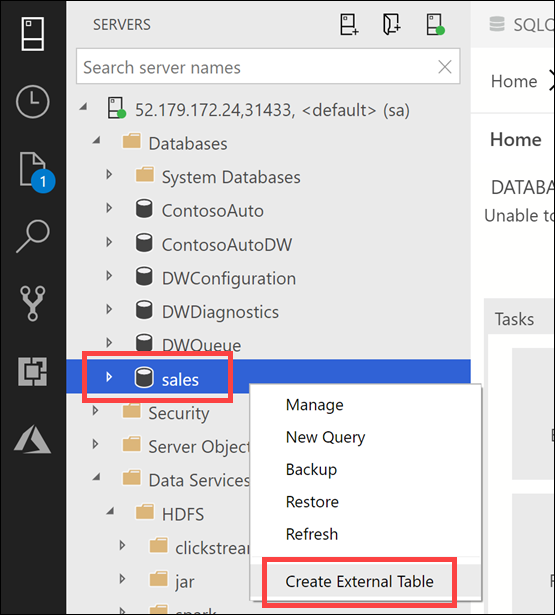
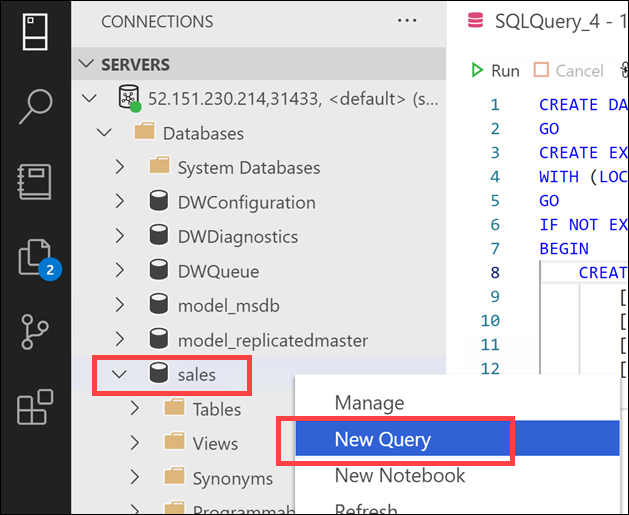
Switched from ADS interface to query for SQL external table

diff --git a/data-exp2/README.md b/data-exp2/README.md
@@ -2,18 +2,18 @@
 
 ## Data, Experience 2 - Handling Big Data with SQL Server 2019 Big Data Clusters
 
-- [Data & AI Tech Immersion Workshop – Product Review Guide and Lab Instructions](#Data--AI-Tech-Immersion-Workshop-%E2%80%93-Product-Review-Guide-and-Lab-Instructions)
-  - [Data, Experience 2 - Handling Big Data with SQL Server 2019 Big Data Clusters](#Data-Experience-2---Handling-Big-Data-with-SQL-Server-2019-Big-Data-Clusters)
-  - [Technology overview](#Technology-overview)
-  - [Scenario overview](#Scenario-overview)
-  - [Experience requirements](#Experience-requirements)
-  - [Before the lab: Connecting to SQL Server 2019](#Before-the-lab-Connecting-to-SQL-Server-2019)
-    - [Connect with Azure Data Studio](#Connect-with-Azure-Data-Studio)
-  - [Task 1: Query and join data from flat files, data from external database systems, and SQL Server](#Task-1-Query-and-join-data-from-flat-files-data-from-external-database-systems-and-SQL-Server)
-  - [Task 2: Train a machine learning model, score and save data as external table](#Task-2-Train-a-machine-learning-model-score-and-save-data-as-external-table)
-  - [Task 3: Mounting an Azure Data Lake Gen2 Storage Account to SQL Server 2019 Big Data Cluster using HDFS Tiering](#Task-3-Mounting-an-Azure-Data-Lake-Gen2-Storage-Account-to-SQL-Server-2019-Big-Data-Cluster-using-HDFS-Tiering)
-  - [Wrap-up](#Wrap-up)
-  - [Additional resources and more information](#Additional-resources-and-more-information)
+- [Data & AI Tech Immersion Workshop – Product Review Guide and Lab Instructions](#data--ai-tech-immersion-workshop-%e2%80%93-product-review-guide-and-lab-instructions)
+  - [Data, Experience 2 - Handling Big Data with SQL Server 2019 Big Data Clusters](#data-experience-2---handling-big-data-with-sql-server-2019-big-data-clusters)
+  - [Technology overview](#technology-overview)
+  - [Scenario overview](#scenario-overview)
+  - [Experience requirements](#experience-requirements)
+  - [Before the lab: Connecting to SQL Server 2019](#before-the-lab-connecting-to-sql-server-2019)
+    - [Connect with Azure Data Studio](#connect-with-azure-data-studio)
+  - [Task 1: Query and join data from flat files, data from external database systems, and SQL Server](#task-1-query-and-join-data-from-flat-files-data-from-external-database-systems-and-sql-server)
+  - [Task 2: Train a machine learning model, score and save data as external table](#task-2-train-a-machine-learning-model-score-and-save-data-as-external-table)
+  - [Task 3: Mounting an Azure Data Lake Gen2 Storage Account to SQL Server 2019 Big Data Cluster using HDFS Tiering](#task-3-mounting-an-azure-data-lake-gen2-storage-account-to-sql-server-2019-big-data-cluster-using-hdfs-tiering)
+  - [Wrap-up](#wrap-up)
+  - [Additional resources and more information](#additional-resources-and-more-information)
 
 ## Technology overview
 
@@ -104,53 +104,51 @@ To start, we will use the External Table Wizard in Azure Data Studio to connect 
 
 1.  Open Azure Data Studio and connect to your SQL Server 2019 cluster, following the [connection steps](#connect-with-azure-data-studio) above.
 
-2.  Expand the Databases folder, right-click on the **sales_YOUR_UNIQUE_IDENTIFIER** database, then select **Create External Table**. The `YOUR_UNIQUE_IDENTIFIER` portion of the name is the unique identifier assigned to you for this lab.
+2.  Expand the Databases folder, right-click on the **sales_YOUR_UNIQUE_IDENTIFIER** database, then select **Create New Query**. The `YOUR_UNIQUE_IDENTIFIER` portion of the name is the unique identifier assigned to you for this lab.
 
     ![The sales database and the Create External Table sub-menu item are highlighted.](media/ads-create-external-table-sales.png 'Create External Table')
 
-3.  Select the **SQL Server** data source type, then click **Next**.
+3.  Paste the following script into the query window:
 
-    ![The SQL Server data source type is selected.](media/ads-external-table-wizard-data-source-type.png 'Select data source type')
+    ```sql
+    CREATE DATABASE SCOPED CREDENTIAL [SqlCred] WITH IDENTITY = 'SQLReader', SECRET = 'MySQLBigData2019';
+    GO
+    CREATE EXTERNAL DATA SOURCE [SqlSource]
+    WITH (LOCATION = N'sqlserver://tech-immersion-sqlsrv.database.windows.net:1433', CREDENTIAL = [SqlCred], CONNECTION_OPTIONS='DATABASE=CA_Commerce');
+    GO
+    IF NOT EXISTS(SELECT * FROM sys.external_tables WHERE name = 'reviews')
+    BEGIN
+        CREATE EXTERNAL TABLE [dbo].[Reviews](
+            [product_id] [bigint] NOT NULL,
+            [customer_id] [bigint] NOT NULL,
+            [review] [nvarchar](1000) NOT NULL,
+            [date_added] [datetime] NOT NULL
+        )
+        WITH
+        (
+            DATA_SOURCE = SqlSource,
+            LOCATION = 'CA_Commerce.dbo.Reviews'
+        );
+    END
+    ```
 
-4.  The next step is to create a database master key, if it does not already exist. This secures the credentials used by an external data source. Enter `MySecure@MasterKey1` in the **Password** and **Confirm Password** fields. If you see a message stating that a master key already exists, you may skip this step. Click **Next**.
+4.  Click **Run** at the top of the query window to execute:
 
-    ![The Master Key step is displayed.](media/ads-external-table-wizard-master-key.png 'Master Key')
+    ![The SQL query is displayed in the query window and the Run button is highlighted.](media/ads-virtual-sql-table-query.png 'Query window')
 
-5.  Now, enter the credentials provided to you for the **CA_Commerce** Azure SQL Database within the following fields:
+5.  After a few moments, you will see three messages stating that the commands completed successfully.
 
-    - **External Data Source Name:** Enter the string "SQLReviews".
-    - **Server Name:** Enter the value provided to you for the Azure SQL Server name. The name should end with `.database.windows.net` (you can find this value in the lab environment details page, with the label `AZURE DATABASE SERVER`).
-    - **Database Name:** Enter "CA_Commerce".
-    - **Choose Credential:** Select "-- Create New Credential --".
-    - **New Credential Name:** Enter "SQLCred".
-    - **Username:** Enter the Azure SQL Server username provided to you for this lab (look to the lab environment details for the label `DATABASE USER`).
-    - **Password:** Enter the Azure SQL Server password provided to you for this lab (look to the lab environment details for the label `DATABASE PASSWORD`).
+    ![The three success messages are displayed.](media/ads-virtual-sql-table-query-success.png 'Messages window')
 
-    ![The external data source connection form is filled out with the previously mentioned settings entered into the appropriate fields.](media/ads-external-table-wizard-data-source.png 'Create a connection to your Data Source')
-
-6.  Click **Next**. This process will take a few moments while the External Table Wizard attempts to connect to your data source.
-
-7.  The next screen allows you to configure external table mapping and select the tables for which you want to create external views. Expand the **CA_Commerce** database node, then expand Tables, and check the box next to the **dbo.Reviews** table. Click on the table name to highlight it as well. It is here where you can rename the external table if you wish. For now, just click **Next**.
-
-    ![The external tables are listed and the Reviews table is checked and selected.](media/ads-external-table-wizard-table-mapping.png 'External tables')
-
-8.  In the Summary page that follows, you can see the name of the database scoped credential and external data source objects to be created in the destination database. Here you can click Generate Script to view the SQL script that will run to create the external table. Instead, click **Create**.
-
-    ![A screenshot of the summary is displayed.](media/ads-external-table-wizard-summary.png 'Summary')
-
-9.  After a few moments, a "Create External Table succeeded" message will display.
-
-    ![The Create External Table succeeded message is displayed.](media/ads-external-table-wizard-succeeded.png 'Create External Table succeeded message')
-
-10. Select the Servers link (Ctrl+G) on the left-hand menu, then expand the Tables list underneath your **sales_YOUR_UNIQUE_IDENTIFIER** database and find the **dbo.Reviews (External)** table. If you do not see it, right-click on the Tables folder, then select Refresh. The "(External)" portion of the table name denotes that it is a virtual data object that was added as an external table.
+6.  Select the Servers link (Ctrl+G) on the left-hand menu, then expand the Tables list underneath your **sales_YOUR_UNIQUE_IDENTIFIER** database and find the **dbo.Reviews (External)** table. If you do not see it, right-click on the Tables folder, then select Refresh. The "(External)" portion of the table name denotes that it is a virtual data object that was added as an external table.
 
     ![The Reviews external table is displayed in the sales tables list.](media/ads-reviews-table-in-list.png 'Reviews external table')
 
-11. Right-click the **dbo.Reviews (External)** table, then select the **Select Top 1000** menu option to display the table contents.
+7.  Right-click the **dbo.Reviews (External)** table, then select the **Select Top 1000** menu option to display the table contents.
 
     ![The Select Top 1000 rows menu item is highlighted.](media/ads-reviews-select-top-1000.png 'Select Top 1000')
 
-12. You should see a SQL query selecting the top 1000 records from the Reviews table and its results. The interesting thing to note is that the query selects the table and fields using the same syntax you would use to select from any other table in the sales database. The fact that the Reviews table is external is completely seamless and transparent to the user. This is the power of data virtualization in SQL Server 2019.
+8.  You should see a SQL query selecting the top 1000 records from the Reviews table and its results. The interesting thing to note is that the query selects the table and fields using the same syntax you would use to select from any other table in the sales database. The fact that the Reviews table is external is completely seamless and transparent to the user. This is the power of data virtualization in SQL Server 2019.
 
     ![The Reviews query and results are displayed.](media/ads-reviews-query-results.png 'Reviews query results')
 
@@ -162,35 +160,35 @@ To start, we will use the External Table Wizard in Azure Data Studio to connect 
     FROM [sales_YOUR_UNIQUE_IDENTIFIER].[dbo].[Reviews]
     ```
 
-13. The next data source we will be virtualizing is a CSV file that was uploaded to HDFS.
+9.  The next data source we will be virtualizing is a CSV file that was uploaded to HDFS.
 
-14. Within Azure Data Studio, scroll down below the list of SQL Server 2019 databases to find the **Data Services** folder. Expand that folder, expand the **HDFS** folder, then expand the **data** subfolder. Right-click on the `stockitemholdings.csv` file, then select **Create External Table From CSV Files**.
+10. Within Azure Data Studio, scroll down below the list of SQL Server 2019 databases to find the **Data Services** folder. Expand that folder, expand the **HDFS** folder, then expand the **data** subfolder. Right-click on the `stockitemholdings.csv` file, then select **Create External Table From CSV Files**.
 
     ![The CSV file and the Create External Table From CSV Files menu item are highlighted.](media/ads-create-external-table-csv.png 'Create External Table From CSV Files')
 
-15. In the Create External Table from CSV dialog, confirm that the **sales** database is selected and that the name of the external table is **stockitemholdings**.
+11. In the Create External Table from CSV dialog, confirm that the **sales** database is selected and that the name of the external table is **stockitemholdings**.
 
     ![The previously mentioned form is displayed.](media/ads-external-table-csv-wizard-active-connection.png 'Active SQL Server connections')
 
-16. Click **Next**.
+12. Click **Next**.
 
-17. The next step displays a preview of the first 50 rows CSV data for validation. Click **Next** to continue.
+13. The next step displays a preview of the first 50 rows CSV data for validation. Click **Next** to continue.
 
     ![A preview of the CSV data is displayed.](media/ads-external-table-csv-preview.png 'Preview Data')
 
-18. In the next step, you will be able to modify the columns of the external table you intend to create. You are able to alter the column name, change the data type, and allow for Nullable rows. For now, leave everything as-is and click **Next**.
+14. In the next step, you will be able to modify the columns of the external table you intend to create. You are able to alter the column name, change the data type, and allow for Nullable rows. For now, leave everything as-is and click **Next**.
 
     ![The Modify Columns step is displayed.](media/ads-external-table-csv-modify.png 'Modify Columns')
 
-19. Verify that everything looks correct in the Summary step, then click **Create Table**.
+15. Verify that everything looks correct in the Summary step, then click **Create Table**.
 
     ![The Summary step is displayed.](media/ads-external-table-csv-create.png 'Summary')
 
-20. As with the previous external table you created, a "Create External Table succeeded" dialog will appear under your task history in a few moments. Select the Servers link (Ctrl+G) on the left-hand menu, then expand the Tables list underneath your **sales** database and find the **dbo.stockitemholdings (External)** table. If you do not see it, right-click on the Tables folder, then select Refresh. **Right-click** the **dbo.stockitemholdings (External)** table, then select **Select Top 1000** from the context menu.
+16. As with the previous external table you created, a "Create External Table succeeded" dialog will appear under your task history in a few moments. Select the Servers link (Ctrl+G) on the left-hand menu, then expand the Tables list underneath your **sales** database and find the **dbo.stockitemholdings (External)** table. If you do not see it, right-click on the Tables folder, then select Refresh. **Right-click** the **dbo.stockitemholdings (External)** table, then select **Select Top 1000** from the context menu.
 
     ![The Select Top 1000 rows menu item is highlighted.](media/ads-stockitemholdings-select-top-1000.png 'Select Top 1000')
 
-21. Just as before, you should see a SQL query selecting the top 1000 rows and its query results, this time from the `stockitemholdings` table. Again, the SQL query is the same type of query you would write to select from a table internal to the sales database.
+17. Just as before, you should see a SQL query selecting the top 1000 rows and its query results, this time from the `stockitemholdings` table. Again, the SQL query is the same type of query you would write to select from a table internal to the sales database.
 
     ![The stockitemholdings query and results are displayed.](media/ads-stockitemholdings-results.png 'Stockitemholdings results')
 
@@ -207,11 +205,11 @@ To start, we will use the External Table Wizard in Azure Data Studio to connect 
     FROM [sales_YOUR_UNIQUE_IDENTIFIER].[dbo].[stockitemholdings]
     ```
 
-22. Now that we have our two external tables added, we will now join those two external tables and two internal tables with a new SQL query to demonstrate how you can seamlessly combine all these data sources without having to copy any files or with separate queries or additional processing of that data. **Right-click** the **sales_YOUR_UNIQUE_IDENTIFIER** database, then select **New Query**.
+18. Now that we have our two external tables added, we will now join those two external tables and two internal tables with a new SQL query to demonstrate how you can seamlessly combine all these data sources without having to copy any files or with separate queries or additional processing of that data. **Right-click** the **sales_YOUR_UNIQUE_IDENTIFIER** database, then select **New Query**.
 
     ![The sales database and New Query menu item are highlighted.](media/ads-new-query.png 'New Query')
 
-23. Paste the following into the new query window:
+19. Paste the following into the new query window:
 
     ```sql
     SELECT i.i_item_sk AS ItemID, i.i_item_desc AS Item, c.c_first_name AS FirstName,
@@ -222,11 +220,11 @@ To start, we will use the External Table Wizard in Azure Data Studio to connect 
     JOIN dbo.stockitemholdings AS s ON i.i_item_sk = s.StockItemID
     ```
 
-24. Click the **Run** button above the query window to execute.
+20. Click the **Run** button above the query window to execute.
 
     ![The Run button above the query window is highlighted.](media/ads-run.png 'Run')
 
-25. At the bottom of the query window, you will see results that include columns from the four data sources.
+21. At the bottom of the query window, you will see results that include columns from the four data sources.
 
     ![Query results from the four data sets.](media/ads-query-results.png 'Query results')
 
@@ -307,14 +305,16 @@ HDFS also provides data persistency, as HDFS data is spread across all the stora
 4. Execute the following in the command prompt to mount the drive:
 
    ```powershell
-   mssqlctl bdc storage-pool mount create --remote-uri abfs://databricksfiles@ikedatabricks.dfs.core.windows.net/ --mount-path /mounts/dbfiles
+   azdata bdc hdfs mount create --remote-uri abfs://databricksfiles@ikedatabricks.dfs.core.windows.net/ --mount-path /mounts/dbfiles
    ```
 
 5. Once the storage account has been mounted, you can check the status:
 
    ```powershell
-   mssqlctl bdc storage-pool mount status
+   azdata bdc hdfs mount status
    ```
+
+   ![The mount status is displayed in the command window.](media/cmd-mount-status.png 'Mount status')
 
 6. Now you can use Azure Data Studio and view the files from ADLS Gen2 under your HDFS folder in your Servers pane. Look under /HDFS/mounts/dbfiles/
 
